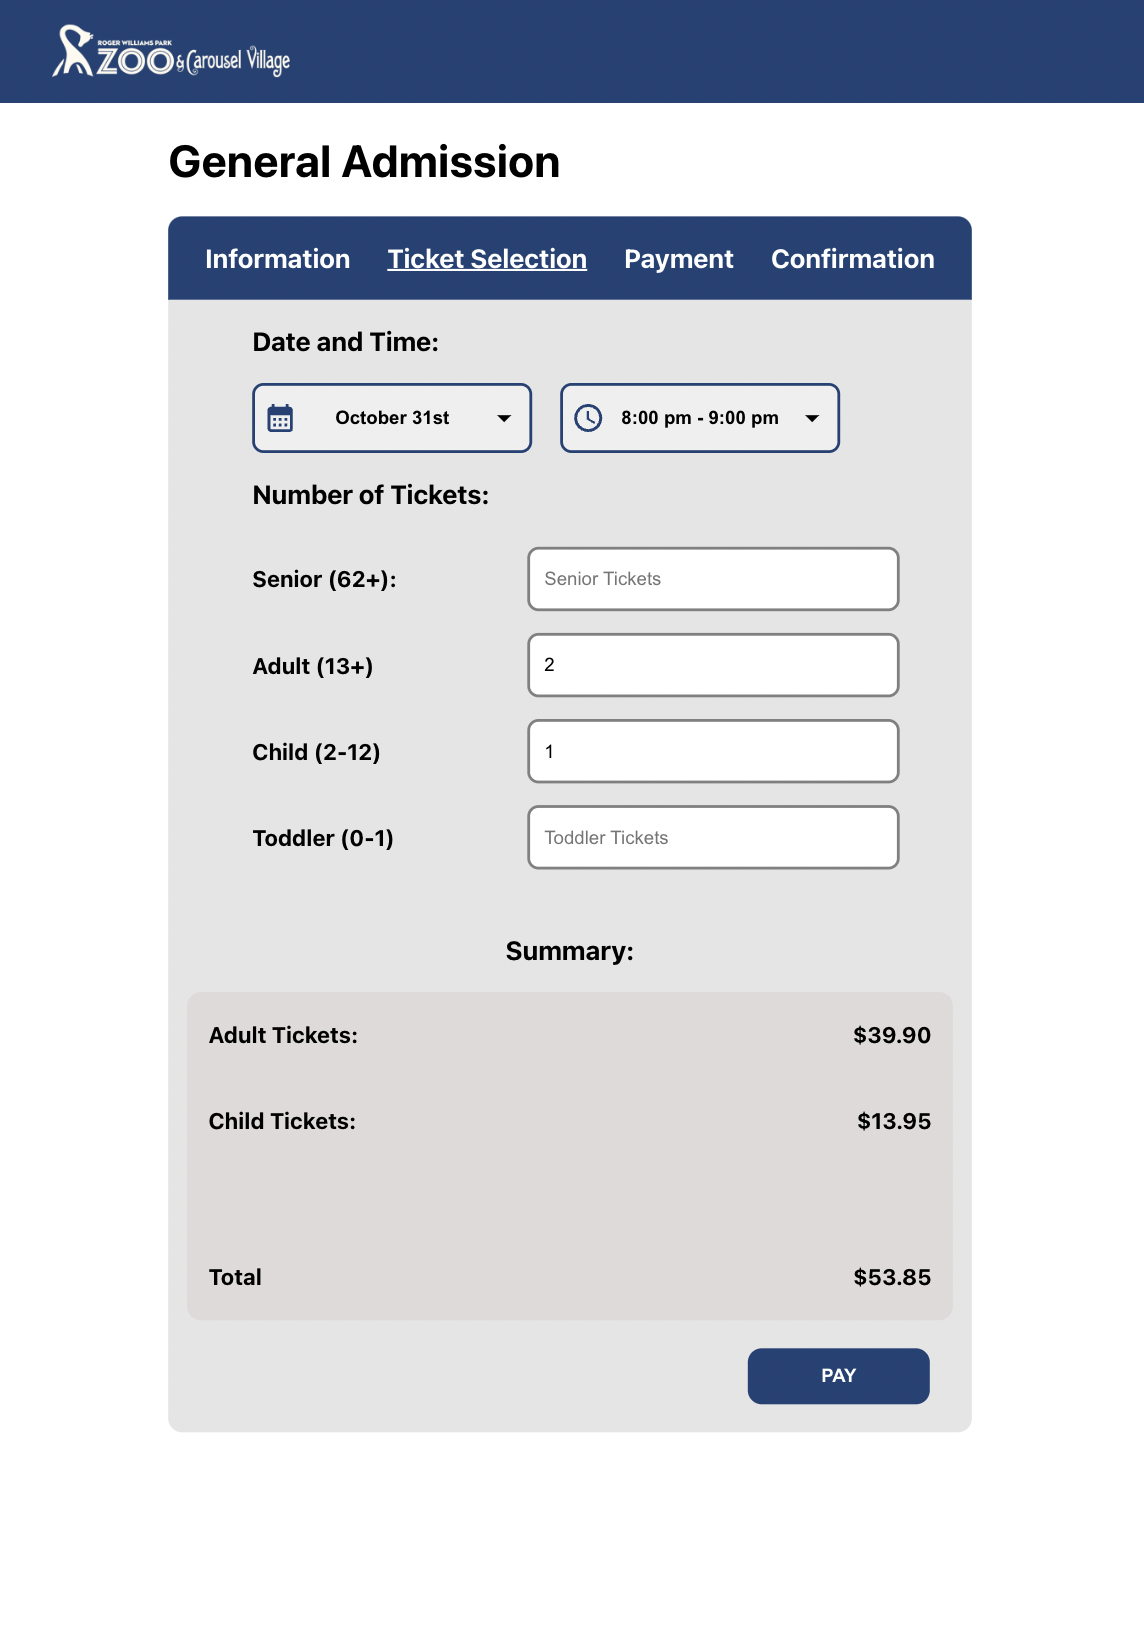
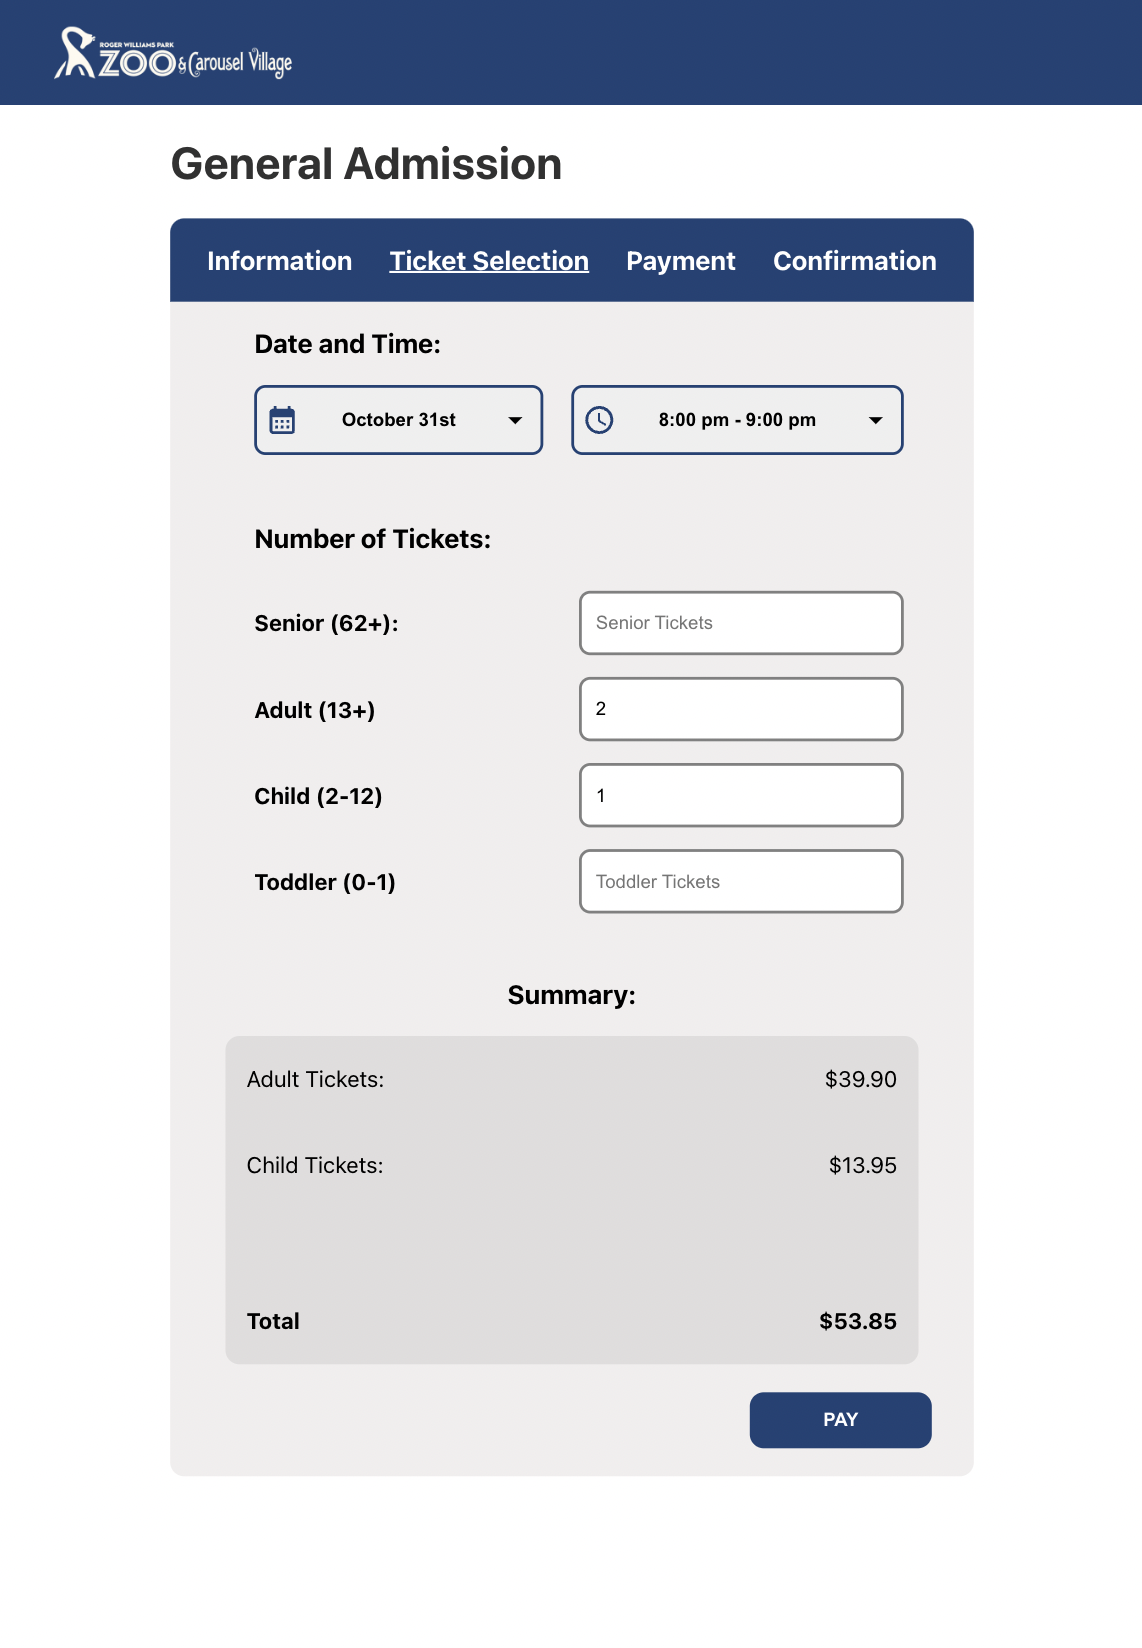
saving

diff --git a/src/css/RWZ.module.css b/src/css/RWZ.module.css
@@ -266,10 +266,11 @@ body html {
     }
 
     #summaryDiv {
-        width: 100%;
+        width: 90%;
         margin-top: 20px;
         align-items: center;
         padding: 0;
+        margin-left: 5%;
     }
 
     #petIcon {
@@ -294,8 +295,6 @@ body html {
 }
 
 @media screen and (max-width: 883px) {
-
-
     #mainWrapper {
         width: 100%;
         border-radius: 10px;
@@ -315,7 +314,13 @@ body html {
 }
 
 @media screen and (max-width: 752px) {
-
+    #summaryDiv {
+        width: 100%;
+        margin-top: 20px;
+        align-items: center;
+        padding: 0;
+        margin-left: 0;
+    }
 
     .inputBtn {
         width: 80%;

diff --git a/src/pages/RWZ.js b/src/pages/RWZ.js
@@ -24,7 +24,7 @@ export default function RWZ() {
 function NavBar() {
     return (
         <div id={styles.navBar}>
-            <img src='https://www.rwpzoo.org/wp-content/uploads/2022/05/logo-w-carousel.png' id={styles.logo} />
+            <img alt='zoo-logo' src='https://www.rwpzoo.org/wp-content/uploads/2022/05/logo-w-carousel.png' id={styles.logo} />
         </div>
     )
 }
